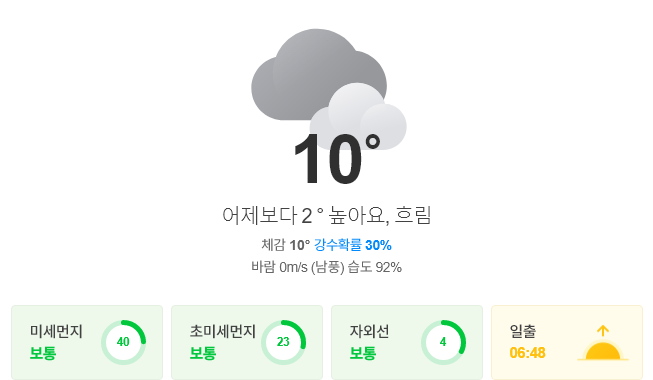
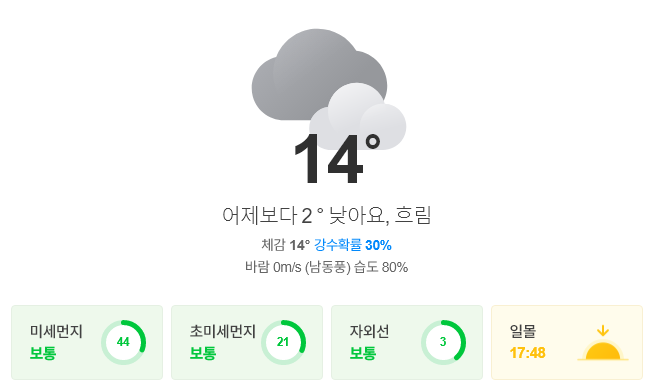
update result

diff --git a/README.md b/README.md
@@ -1,13 +1,13 @@
-##  2020-10-21 05:54:38   수요일 
-##### 날씨   -   어제보다 2 ° 높아요, 흐림
+##  2020-10-21 09:16:50   수요일 
+##### 날씨   -   어제보다 2 ° 낮아요, 흐림
 <center><img src="../img/naver_weather_week.png"></center>
 ----
 ----
 ##### 지수
 <table border="1" bordercolor="blue" align = "center" >
 <tr align = "right" > <td>Item</td><td>Point</td><td>Diff</td><td>Rate</td><td>Buy</td><td>Sell</td><td>...</td>  </tr>
-<tr align = "right" > <td>KOSPI</td><td>2,358.41</td><td>11.67</td><td><font size="3" color="red" >0.5%</font> </td><td><font size="3" color="black">2,000</font></td><td><font size="3" color="black">3,000</font></td><td>0</td>  </tr>
-<tr align = "right" > <td>KOSDAQ</td><td>824.65</td><td>2.4</td><td><font size="3" color="red" >0.29%</font> </td><td><font size="3" color="black">0</font></td><td><font size="3" color="black">0</font></td><td>0</td>  </tr>
+<tr align = "right" > <td>KOSPI</td><td>2,363.5</td><td>5.09</td><td><font size="3" color="red" >0.22%</font> </td><td><font size="3" color="black">2,000</font></td><td><font size="3" color="black">3,000</font></td><td>0</td>  </tr>
+<tr align = "right" > <td>KOSDAQ</td><td>826.02</td><td>1.37</td><td><font size="3" color="red" >0.17%</font> </td><td><font size="3" color="black">0</font></td><td><font size="3" color="black">0</font></td><td>0</td>  </tr>
 </table>
 ----
 ##### 세계
@@ -23,31 +23,31 @@
 ##### 시장
 <table border="1" bordercolor="blue" align = "center" >
 <tr align = "right" > <td>Item</td><td>Price</td><td>Diff</td><td>Rate</td><td>Buy</td><td>Sell</td><td>...</td>  </tr>
-<tr align = "right" > <td>USD</td><td>1,139.0</td><td>-1.0</td><td><font size="3" color="blue">-0.09%</font></td><td><font size="3" color="orangered">1,150</font></td><td><font size="3" color="black">0</font></td><td>0</td>  </tr>
-<tr align = "right" > <td>WTI</td><td>41.06</td><td>-0.06</td><td><font size="3" color="blue">-0.14%</font></td><td><font size="3" color="black">29.0</font></td><td><font size="3" color="black">0</font></td><td>0</td>  </tr>
-<tr align = "right" > <td>GOLD</td><td>1,906.0</td><td>5.6</td><td><font size="3" color="red">0.29%</font></td><td><font size="3" color="black">0</font></td><td><font size="3" color="black">0</font></td><td>0</td>  </tr>
+<tr align = "right" > <td>USD</td><td>1,136.0</td><td>-2.4</td><td><font size="3" color="blue">-0.21%</font></td><td><font size="3" color="orangered">1,150</font></td><td><font size="3" color="black">0</font></td><td>0</td>  </tr>
+<tr align = "right" > <td>WTI</td><td>41.7</td><td>0.64</td><td><font size="3" color="red">1.55%</font></td><td><font size="3" color="black">29.0</font></td><td><font size="3" color="black">0</font></td><td>0</td>  </tr>
+<tr align = "right" > <td>GOLD</td><td>1,910.0</td><td>4.0</td><td><font size="3" color="red">0.2%</font></td><td><font size="3" color="black">0</font></td><td><font size="3" color="black">0</font></td><td>0</td>  </tr>
 </table>
 ----
 ##### 주가
 <table border="1" bordercolor="blue" align = "center" >
 <tr align = "right" > <td>Item</td><td>Price</td><td>Diff</td><td>Rate</td><td>Purchased</td><td>Sell</td><td>Buy</td>  </tr>
-<tr align = "right" > <td>한국 전력</td><td>21,000</td><td>-400</td><td><font size="3" color="blue">-1.87%</font></td><td>25,720</td><td><font size="3" color="black">30,000</font></td><td><font size="3" color="black">14,000</font></td>  </tr>
-<tr align = "right" > <td>삼성엔지니어.</td><td>10,950</td><td>-50</td><td><font size="3" color="blue">-0.45%</font></td><td>18,935</td><td><font size="3" color="black">20,000</font></td><td><font size="3" color="black">8,000</font></td>  </tr>
-<tr align = "right" > <td>CJ CGV</td><td>21,500</td><td>-200</td><td><font size="3" color="blue">-0.92%</font></td><td>34,895</td><td><font size="3" color="black">36,000</font></td><td><font size="3" color="black">0</font></td>  </tr>
-<tr align = "right" > <td>아모레퍼시픽</td><td>168,500</td><td>-1,500</td><td><font size="3" color="blue">-0.88%</font></td><td>235,350</td><td><font size="3" color="black">240,000</font></td><td><font size="3" color="black">130,000</font></td>  </tr>
-<tr align = "right" > <td>한화</td><td>25,150</td><td>0</td><td><font size="3" color="black">0.0%</font></td><td>25,550</td><td><font size="3" color="black">30,000</font></td><td><font size="3" color="black">20,000</font></td>  </tr>
-<tr align = "right" > <td>NAVER</td><td>290,000</td><td>4,000</td><td><font size="3" color="red">1.4%</font></td><td>147,200</td><td><font size="3" color="black">400,000</font></td><td><font size="3" color="black">150,000</font></td>  </tr>
-<tr align = "right" > <td>LG 화학우</td><td>324,000</td><td>4,000</td><td><font size="3" color="red">1.25%</font></td><td>202,490</td><td><font size="3" color="black">500,000</font></td><td><font size="3" color="black">200,000</font></td>  </tr>
-<tr align = "right" > <td>스튜디오드래.</td><td>82,600</td><td>0</td><td><font size="3" color="black">0.0%</font></td><td>81,243</td><td><font size="3" color="black">100,000</font></td><td><font size="3" color="black">78,000</font></td>  </tr>
-<tr align = "right" > <td>글로벌럭셔리</td><td>12,770</td><td>-55</td><td><font size="3" color="blue">-0.43%</font></td><td>9,630</td><td><font size="3" color="black">15,000</font></td><td><font size="3" color="black">10,000</font></td>  </tr>
-<tr align = "right" > <td>QV미국IT</td><td>23,670</td><td>-610</td><td><font size="3" color="blue">-2.51%</font></td><td>22,010</td><td><font size="3" color="black">30,000</font></td><td><font size="3" color="black">20,000</font></td>  </tr>
-<tr align = "right" > <td>호텔 신라</td><td>76,600</td><td>-600</td><td><font size="3" color="blue">-0.78%</font></td><td>72,800</td><td><font size="3" color="black">100,000</font></td><td><font size="3" color="black">70,000</font></td>  </tr>
-<tr align = "right" > <td>S-Oil</td><td>56,900</td><td>-1,000</td><td><font size="3" color="blue">-1.73%</font></td><td>62,842</td><td><font size="3" color="black">100,000</font></td><td><font size="3" color="black">50,000</font></td>  </tr>
-<tr align = "right" > <td>LG전자</td><td>90,700</td><td>1,600</td><td><font size="3" color="red">1.8%</font></td><td>82,022</td><td><font size="3" color="black">100,000</font></td><td><font size="3" color="black">60,000</font></td>  </tr>
-<tr align = "right" > <td>지역난방공사</td><td>38,250</td><td>-1,350</td><td><font size="3" color="blue">-3.41%</font></td><td>43,590</td><td><font size="3" color="black">60,000</font></td><td><font size="3" color="black">30,000</font></td>  </tr>
-<tr align = "right" > <td>KOEDX은행</td><td>5,410</td><td>0</td><td><font size="3" color="black">0.0%</font></td><td>5,155</td><td><font size="3" color="black">6,000</font></td><td><font size="3" color="black">4,500</font></td>  </tr>
-<tr align = "right" > <td>삼성 전자우</td><td>53,300</td><td>300</td><td><font size="3" color="red">0.57%</font></td><td>48,250</td><td><font size="3" color="black">56,000</font></td><td><font size="3" color="black">45,000</font></td>  </tr>
-<tr align = "right" > <td>한화에어로스.</td><td>25,750</td><td>-250</td><td><font size="3" color="blue">-0.96%</font></td><td>25,700</td><td><font size="3" color="black">30,000</font></td><td><font size="3" color="black">0</font></td>  </tr>
-<tr align = "right" > <td>한국금융지주</td><td>68,300</td><td>500</td><td><font size="3" color="red">0.74%</font></td><td>61,900</td><td><font size="3" color="black">82,000</font></td><td><font size="3" color="black">60,000</font></td>  </tr>
+<tr align = "right" > <td>한국 전력</td><td>21,250</td><td>250</td><td><font size="3" color="red">1.19%</font></td><td>25,720</td><td><font size="3" color="black">30,000</font></td><td><font size="3" color="black">14,000</font></td>  </tr>
+<tr align = "right" > <td>삼성엔지니어.</td><td>11,000</td><td>50</td><td><font size="3" color="red">0.46%</font></td><td>18,935</td><td><font size="3" color="black">20,000</font></td><td><font size="3" color="black">8,000</font></td>  </tr>
+<tr align = "right" > <td>CJ CGV</td><td>21,300</td><td>-200</td><td><font size="3" color="blue">-0.93%</font></td><td>34,895</td><td><font size="3" color="black">36,000</font></td><td><font size="3" color="black">0</font></td>  </tr>
+<tr align = "right" > <td>아모레퍼시픽</td><td>168,500</td><td>0</td><td><font size="3" color="black">0.0%</font></td><td>235,350</td><td><font size="3" color="black">240,000</font></td><td><font size="3" color="black">130,000</font></td>  </tr>
+<tr align = "right" > <td>한화</td><td>25,350</td><td>200</td><td><font size="3" color="red">0.8%</font></td><td>25,550</td><td><font size="3" color="black">30,000</font></td><td><font size="3" color="black">20,000</font></td>  </tr>
+<tr align = "right" > <td>NAVER</td><td>299,000</td><td>9,000</td><td><font size="3" color="red">3.1%</font></td><td>147,200</td><td><font size="3" color="black">400,000</font></td><td><font size="3" color="black">150,000</font></td>  </tr>
+<tr align = "right" > <td>LG 화학우</td><td>323,500</td><td>-500</td><td><font size="3" color="blue">-0.15%</font></td><td>202,490</td><td><font size="3" color="black">500,000</font></td><td><font size="3" color="black">200,000</font></td>  </tr>
+<tr align = "right" > <td>스튜디오드래.</td><td>82,100</td><td>-500</td><td><font size="3" color="blue">-0.61%</font></td><td>81,243</td><td><font size="3" color="black">100,000</font></td><td><font size="3" color="black">78,000</font></td>  </tr>
+<tr align = "right" > <td>글로벌럭셔리</td><td>12,770</td><td>0</td><td><font size="3" color="black">0.0%</font></td><td>9,630</td><td><font size="3" color="black">15,000</font></td><td><font size="3" color="black">10,000</font></td>  </tr>
+<tr align = "right" > <td>QV미국IT</td><td>23,890</td><td>220</td><td><font size="3" color="red">0.93%</font></td><td>22,010</td><td><font size="3" color="black">30,000</font></td><td><font size="3" color="black">20,000</font></td>  </tr>
+<tr align = "right" > <td>호텔 신라</td><td>77,600</td><td>1,000</td><td><font size="3" color="red">1.31%</font></td><td>72,800</td><td><font size="3" color="black">100,000</font></td><td><font size="3" color="black">70,000</font></td>  </tr>
+<tr align = "right" > <td>S-Oil</td><td>57,000</td><td>100</td><td><font size="3" color="red">0.18%</font></td><td>62,842</td><td><font size="3" color="black">100,000</font></td><td><font size="3" color="black">50,000</font></td>  </tr>
+<tr align = "right" > <td>LG전자</td><td>90,400</td><td>-300</td><td><font size="3" color="blue">-0.33%</font></td><td>82,022</td><td><font size="3" color="black">100,000</font></td><td><font size="3" color="black">60,000</font></td>  </tr>
+<tr align = "right" > <td>지역난방공사</td><td>38,700</td><td>450</td><td><font size="3" color="red">1.18%</font></td><td>43,590</td><td><font size="3" color="black">60,000</font></td><td><font size="3" color="black">30,000</font></td>  </tr>
+<tr align = "right" > <td>KOEDX은행</td><td>5,405</td><td>-5</td><td><font size="3" color="blue">-0.09%</font></td><td>5,155</td><td><font size="3" color="black">6,000</font></td><td><font size="3" color="black">4,500</font></td>  </tr>
+<tr align = "right" > <td>삼성 전자우</td><td>53,700</td><td>400</td><td><font size="3" color="red">0.75%</font></td><td>48,250</td><td><font size="3" color="black">56,000</font></td><td><font size="3" color="black">45,000</font></td>  </tr>
+<tr align = "right" > <td>한화에어로스.</td><td>25,950</td><td>200</td><td><font size="3" color="red">0.78%</font></td><td>25,700</td><td><font size="3" color="black">30,000</font></td><td><font size="3" color="black">0</font></td>  </tr>
+<tr align = "right" > <td>한국금융지주</td><td>68,500</td><td>200</td><td><font size="3" color="red">0.29%</font></td><td>61,900</td><td><font size="3" color="black">82,000</font></td><td><font size="3" color="black">60,000</font></td>  </tr>
 </table>
 ----
